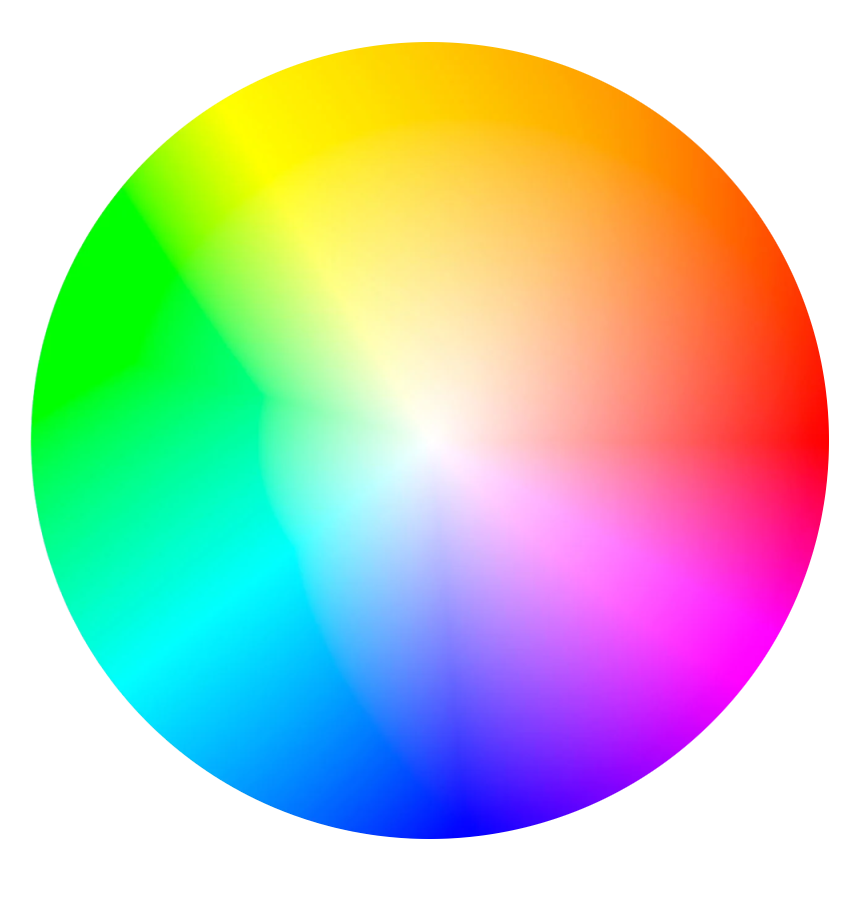
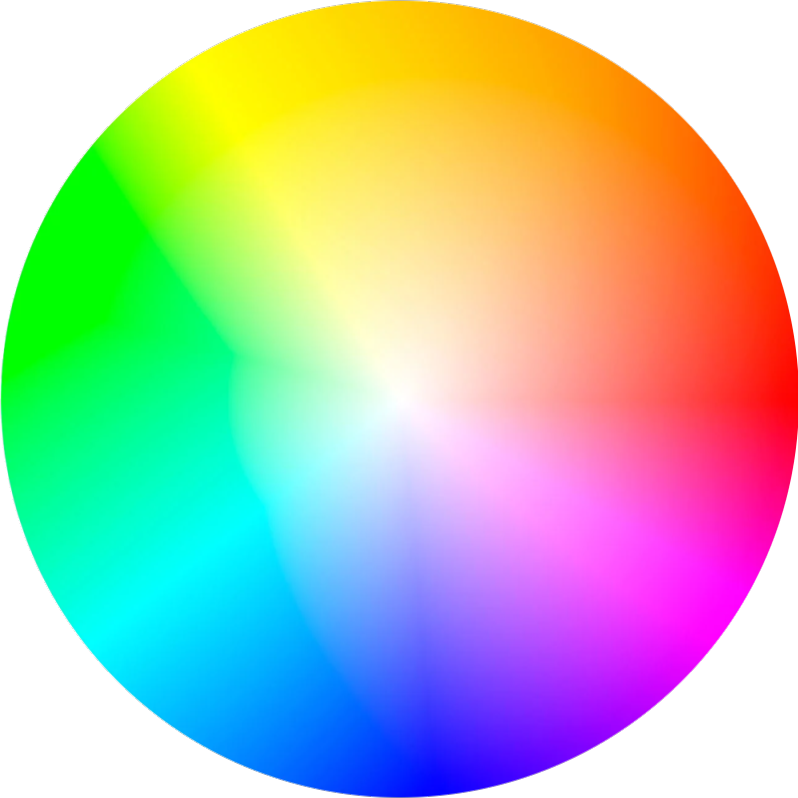
Colorwheel scaling

Changed region(s): [[0.0, 0.0, 1.0, 1.0]]

diff --git a/public/input/sketch_input.js b/public/input/sketch_input.js
@@ -27,7 +27,12 @@ function setup() {
 
 function draw() {
     background(255); 
-    image(bg, (width - bg.width) / 2, (height - bg.height) / 2);
+
+    
+    imageMode(CENTER);
+    image(bg, (width - bg.width) / 1.75, (height - bg.height) / 1.75);
+
+
     ellipseMode(CENTER,CENTER);
     console.log(allTouches.length);
 
@@ -80,3 +85,7 @@ function showRoomFullPopup(message) {
 document.getElementById("reloadBtn").addEventListener("click", () => {
     location.reload();
 });
+
+function windowResized() {
+  // = ignore rotation 
+}
